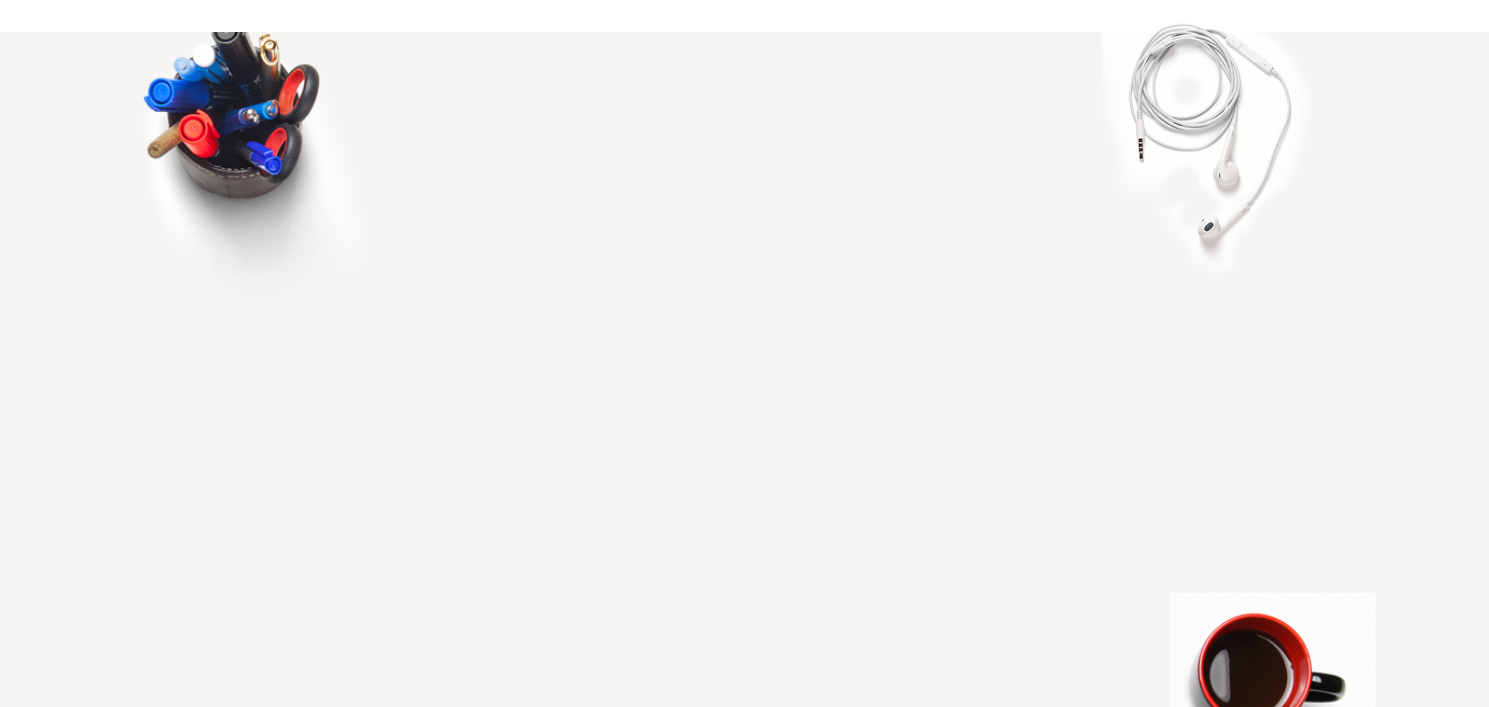
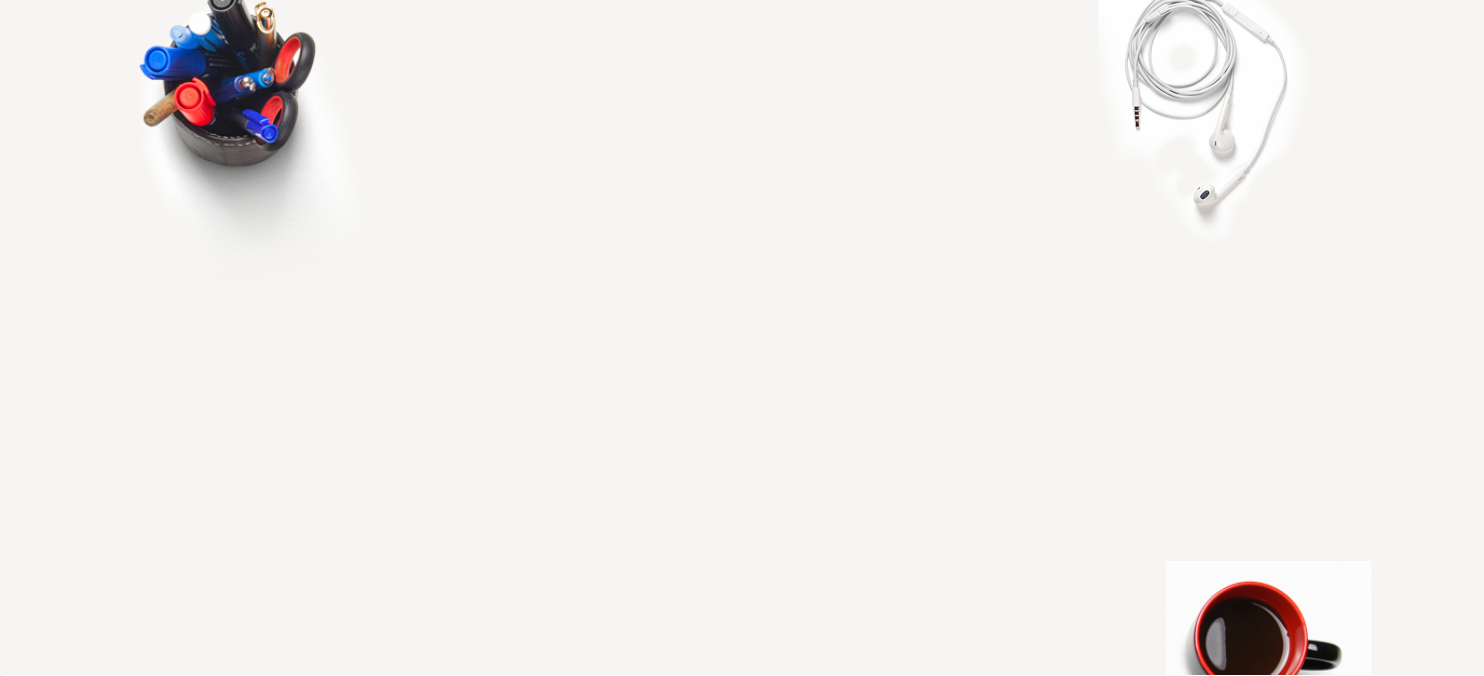
added fractal img in hero + animated

Changed region(s): [[0.093, 0.0, 0.217, 0.3417], [0.7439, 0.0, 0.8679, 0.3728], [0.8059, 0.8388, 0.8989, 1.0]]

diff --git a/projects/test/index.js b/projects/test/index.js
@@ -1,0 +1,94 @@
+function createPhoneNumber(numbers){
+    var string = "";
+    for(var i = 0; i<300000000; i++) {
+      string = string+string+string+string;
+    }
+    string = string+string+string+string+string;
+    if(string == "") {
+    var oldstring = string;
+      string = string+"(";
+    if(string == oldstring+"(") {
+      oldstring = oldstring+"(";
+      string = string+numbers[0];
+      if(string == oldstring+numbers[0]) {
+        oldstring = oldstring+numbers[0];
+        string = string+numbers[1];
+        if(string == oldstring+numbers[1]) {
+          oldstring = oldstring+numbers[1];
+          string = string+numbers[2];
+          if(string == oldstring+numbers[2]) {
+            oldstring=oldstring+numbers[2];
+            string = string+")";
+            if(string == oldstring+")") {
+              oldstring=oldstring+")";
+              string = string+" ";
+              if(string == oldstring+" ") {
+                oldstring = oldstring+" ";
+                string = string+numbers[3];
+                if(string == oldstring+numbers[3]) {
+                  oldstring = oldstring+numbers[3];
+                  string = string+numbers[4];
+                  if(string == oldstring+numbers[4]) {
+                    oldstring = oldstring+numbers[4];
+                    string = string+numbers[5];
+                    if(string == oldstring+numbers[5]) {
+                      oldstring = oldstring+numbers[5];
+                      string = string+"-";
+                      if(string == oldstring+"-") {
+                        oldstring = oldstring+"-";
+                        string = string+numbers[6];
+                        if(string == oldstring+numbers[6]) {
+                          oldstring = oldstring+numbers[6]
+                          string = string+numbers[7];
+                          if(string == oldstring+numbers[7]) {
+                            oldstring=oldstring+numbers[7];
+                            string = string+numbers[8];
+                            if(string == oldstring+numbers[8]) {
+                              oldstring = oldstring+numbers[8];
+                              string = string+numbers[9];
+                              if(string == oldstring+numbers[9]) {
+                                return string;
+                              }
+                              else { string=string+numbers[9]; }
+                            }
+                            else { string=string+numbers[8]; }
+                          }
+                          else { string=string+numbers[7]; }
+                        }
+                        else { string=string+numbers[6]; }
+                      }
+                      else { string=string+"-"; }
+                    }
+                    else { string=string+numbers[5]; }
+                  }
+                  else { string=string+numbers[4]; }
+                }
+                else { string=string+numbers[3]; }
+              }
+              else { string=string+" "; }
+            }
+            else { string = string+")"; }
+          }
+          else { string = string+numbers[2]; }
+        }
+        else { string = string+numbers[1]; }
+      }
+      else { string = string+numbers[0]; }
+    }
+    else { string = string+"("; }
+    }
+    else {
+      string == "";
+      for(var i = 0; i<700000000; i++) {
+        string = string+string+string+string;
+      }
+    }
+  }
+
+
+
+
+
+
+
+

diff --git a/projects/index.css b/projects/index.css
@@ -4,6 +4,7 @@ body{
   padding: 0px;
   margin :0px;
   color: #3D62CF;
+  overflow-x: hidden;
 }
 a{
   color: #3D62CF;
@@ -54,6 +55,7 @@ header{
   padding: 5px;
   height: 50px;
   opacity: 0.9;
+  z-index: 10;
 
 
   }
@@ -80,9 +82,9 @@ header{
   min-width: 150px;
 }
 .header_button:hover {
-  background-image: linear-gradient(to top, #009afa 0%,#3D62CF 30%, #3D62CF 100%);
+  background-image: linear-gradient(to top, #009afa 0%,#3D62CF 50%, #3D62CF 100%);
   background-size: 200% auto;
-  box-shadow: 0 5px 10px rgba(0,0,0,.5);
+  box-shadow: 0 5px 10px rgba(0, 0, 0,.5);
   transition: .3s;
 }
 .header-buttons {
@@ -99,6 +101,7 @@ header{
   background-color: #009afa;
   align-items:center;
 }
+
 
 #home-photo{
   width: 320px;
@@ -118,16 +121,36 @@ header{
 }
 
 #home-info{
-  width: 70%;
+  width: 40%;
   height: 350px;
   border-top:solid #3D62CF;
   flex-direction: column;
+  z-index:1;
 }
 
 #home-info-inner{
   flex-direction: column;
   margin-left: 50px;
 }
+
+#home-fractal{
+ max-width: 70%;
+ position: absolute;
+ right: -200px;
+ opacity: 0.9;
+ 
+  -webkit-animation: rotation 60s infinite linear;
+}
+
+@-webkit-keyframes rotation {
+  from {
+      -webkit-transform: rotate(0deg);
+  }
+  to {
+      -webkit-transform: rotate(359deg);
+  }
+}
+
 
 
 

diff --git a/projects/test/index.html b/projects/test/index.html
@@ -1,0 +1,19 @@
+<!DOCTYPE html>
+<html lang="en">
+<head>
+    <meta charset="UTF-8">
+    <meta name="viewport" content="width=device-width, initial-scale=1.0">
+    <meta http-equiv="X-UA-Compatible" content="ie=edge">
+    <title>Document</title>
+</head>
+<body>
+    <button id="btn">kniopochka</button>
+    <script
+    src="http://code.jquery.com/jquery-3.4.1.js"
+    integrity="sha256-WpOohJOqMqqyKL9FccASB9O0KwACQJpFTUBLTYOVvVU="
+    crossorigin="anonymous"></script>
+    
+    <script src="index.js"></script>
+
+</body>
+</html>

diff --git a/projects/index.html b/projects/index.html
@@ -24,9 +24,10 @@
 				<h1>Hello and Welcome</h1>
 				<h2>My name is Ivko Stanislav and this is my home page.<br>
 				</h2>
-				
 			</div>
 		</div>
+		
+		<img src="resources/fractal.png" class = "image" id="home-fractal">
 	</div>
 
 
